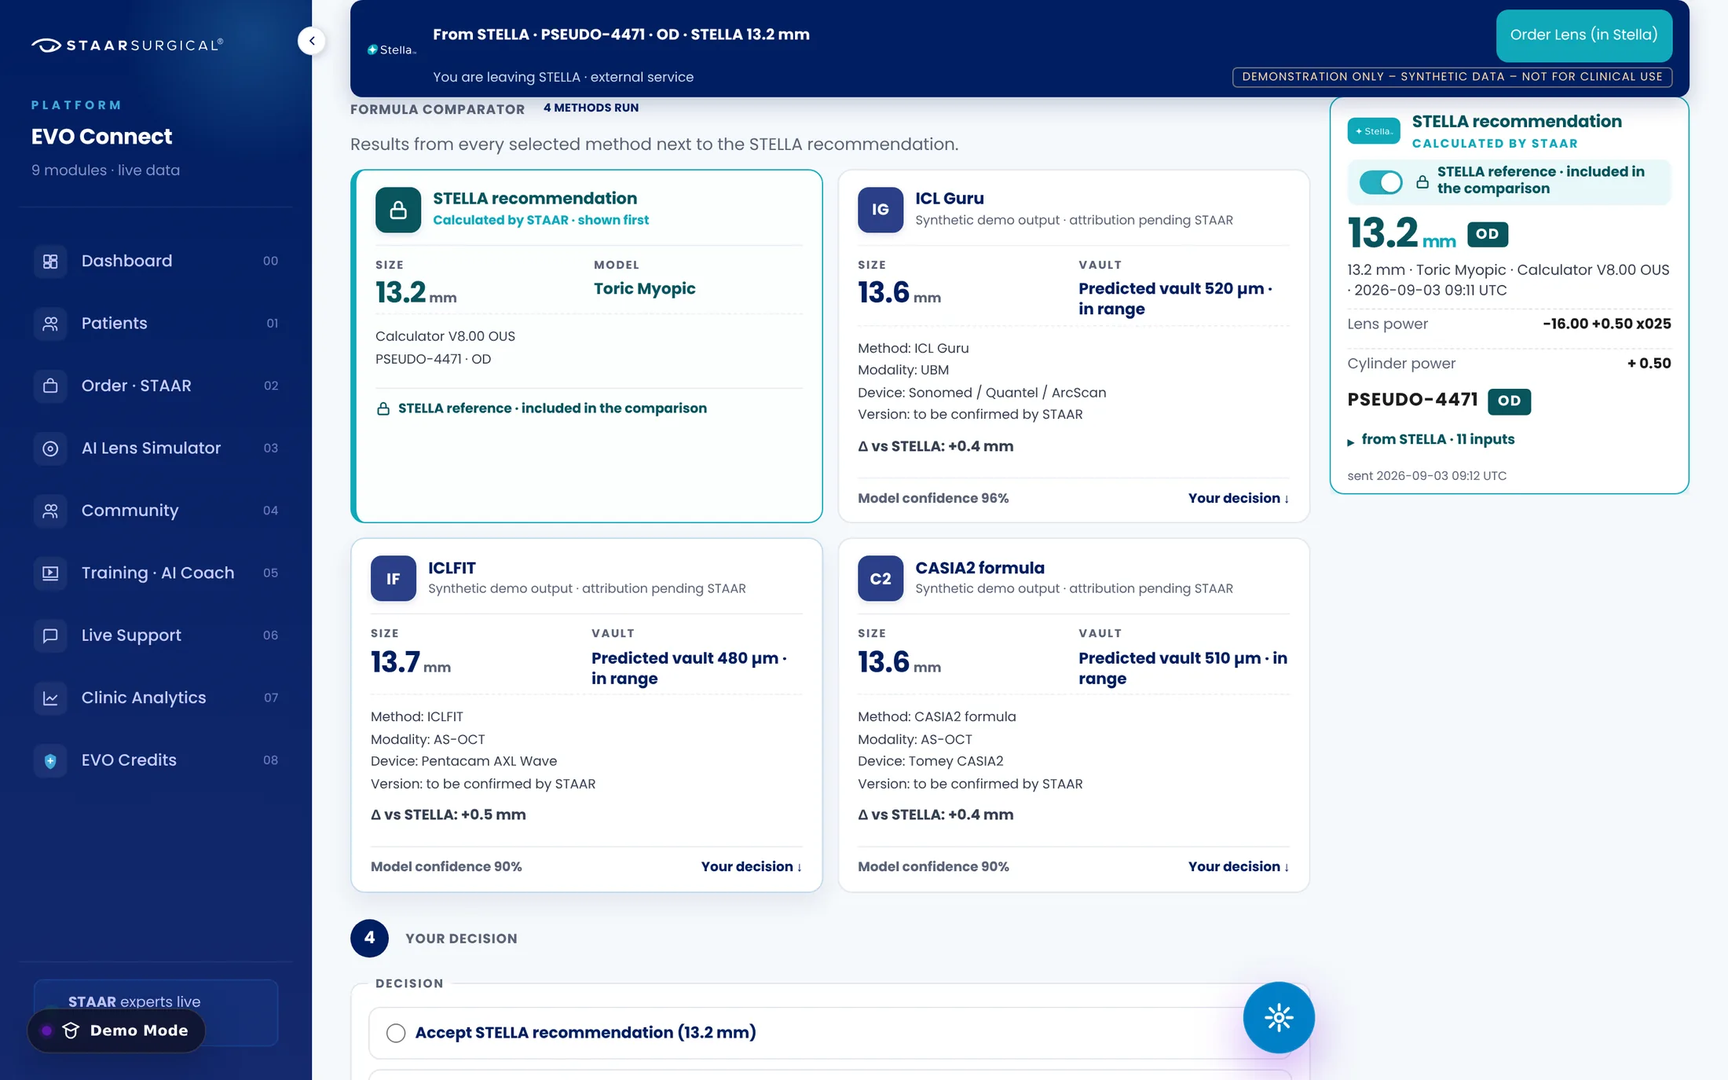
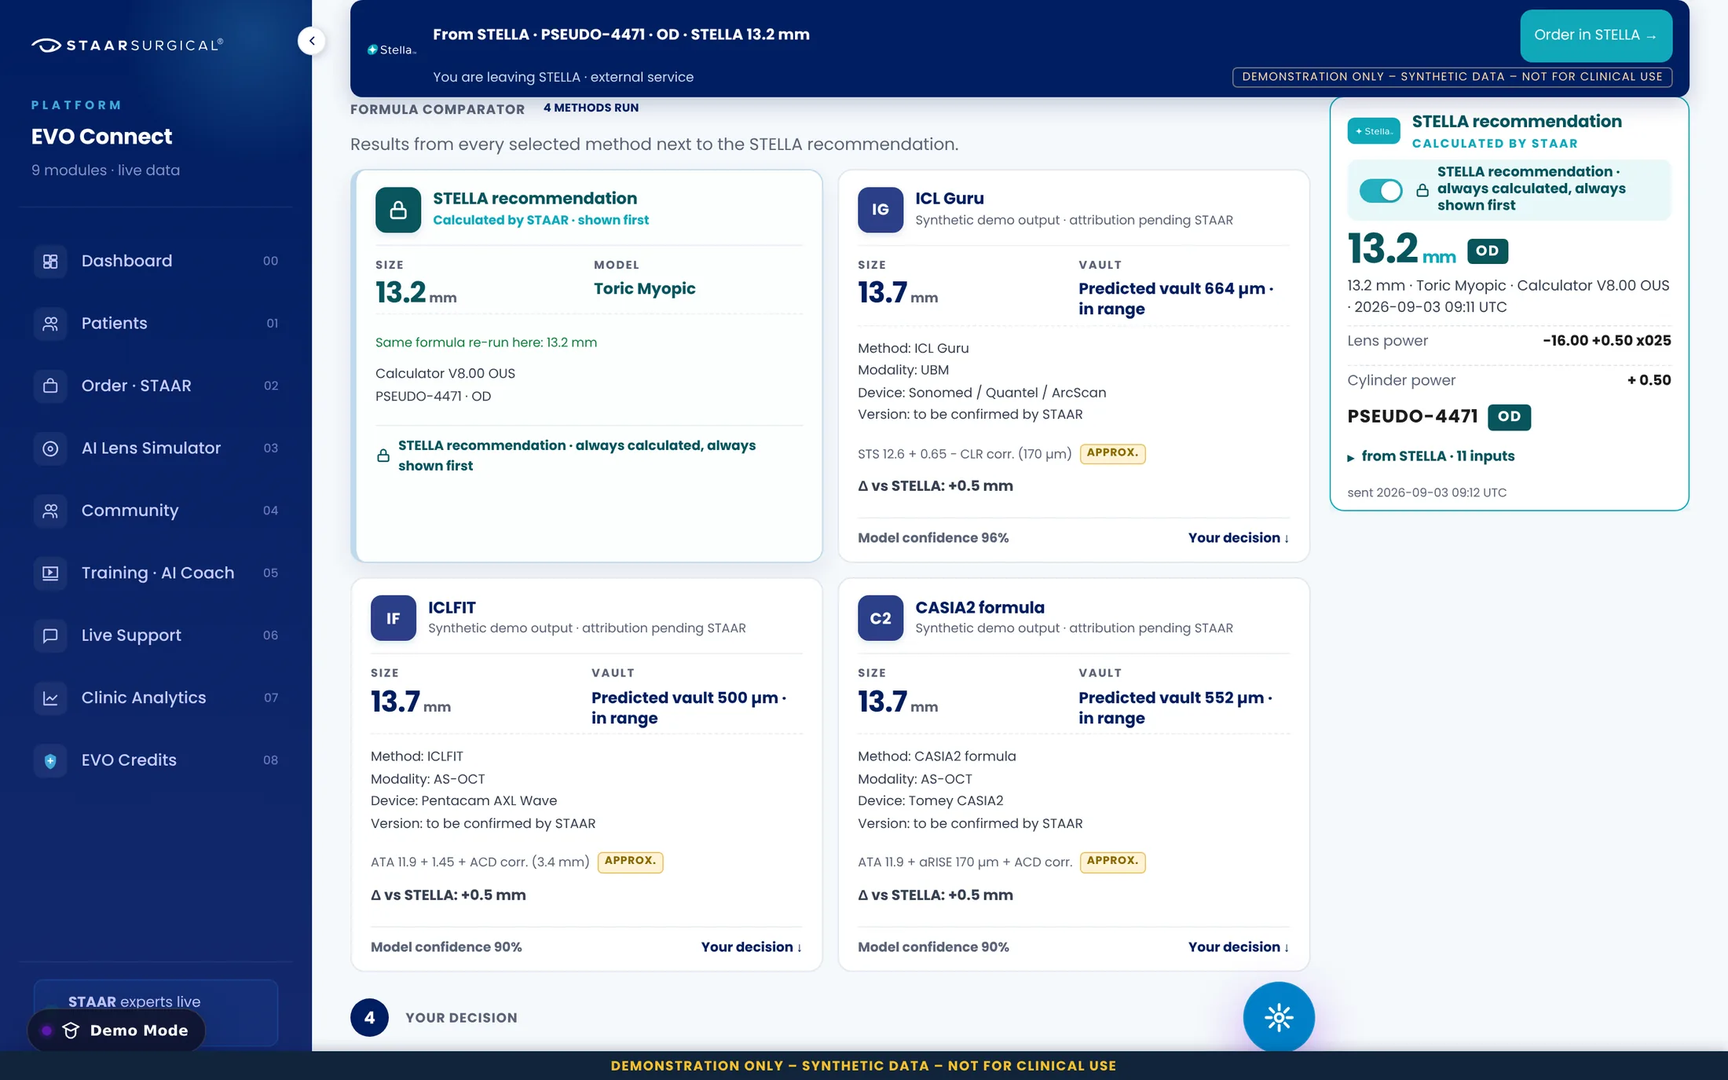
Ecosystem: device alternation, valid lens sizes, animated roadmap timeline

diff --git a/ecosystem.html b/ecosystem.html
@@ -304,20 +304,55 @@
   /* ---------- roadmap ---------- */
   .roadmap{background:var(--black);color:#fff;padding:var(--space-7) 24px;text-align:center;overflow:hidden}
   .roadmap .lead{font-size:20px;color:rgba(255,255,255,.75);max-width:680px;margin:18px auto 0}
-  .roadmap .rail{max-width:1180px;margin:72px auto 0;display:grid;grid-template-columns:repeat(3,1fr);gap:22px;position:relative;text-align:left}
-  .roadmap .rail::before{content:'';position:absolute;left:0;right:0;top:-34px;height:1px;background:linear-gradient(90deg,var(--teal),rgba(16,168,186,.15))}
-  @media (max-width:980px){ .roadmap .rail{grid-template-columns:repeat(2,1fr)} }
-  @media (max-width:640px){ .roadmap .rail{grid-template-columns:1fr} }
-  .rm{position:relative;background:#0F1318;border:1px solid rgba(255,255,255,.08);border-radius:22px;padding:28px 26px 26px;min-height:210px;transition:transform .4s var(--ease),border-color .3s}
-  .rm:hover{transform:translateY(-4px);border-color:rgba(16,168,186,.5)}
-  .rm .q{font-size:11px;font-weight:700;letter-spacing:1.6px;text-transform:uppercase;color:var(--teal);margin:0 0 16px;display:flex;align-items:center;gap:10px}
-  .rm .q::before{content:'';width:8px;height:8px;border-radius:50%;background:var(--teal);box-shadow:0 0 0 4px rgba(16,168,186,.2)}
-  .rm .ico{width:44px;height:44px;border-radius:12px;display:flex;align-items:center;justify-content:center;background:rgba(16,168,186,.12);color:var(--teal);margin-bottom:16px}
-  .rm .ico svg{width:22px;height:22px;stroke:currentColor;fill:none;stroke-width:1.7;stroke-linecap:round;stroke-linejoin:round}
-  .rm h4{font-size:21px;font-weight:600;letter-spacing:-.01em;margin:0 0 8px;line-height:1.2}
-  .rm p{font-size:15px;font-weight:300;color:rgba(255,255,255,.7);line-height:1.55;margin:0}
-  .rm.now{background:linear-gradient(160deg,#07272C,#0F1318 70%);border-color:rgba(16,168,186,.45)}
-  .rm.now .q::after{content:'in preview';margin-left:auto;font-size:9px;padding:3px 8px;border-radius:999px;background:var(--teal);color:#fff;letter-spacing:.8px}
+  .phones{display:flex;justify-content:center;align-items:flex-start;gap:40px;margin:64px auto 0;max-width:1080px}
+  .phones .iphone{position:static;transform:none;width:280px}
+  .phones .iphone:first-child{transform:translateY(28px) rotate(-1.5deg)}
+  .phones .iphone:last-child{transform:rotate(1.5deg)}
+  @media (max-width:900px){ .phones .iphone{width:240px} }
+  @media (max-width:640px){ .phones{flex-direction:column;align-items:center;gap:28px} .phones .iphone{display:block;width:min(270px,78vw);transform:none} }
+
+  .iphone .tabbar{position:absolute;left:0;right:0;bottom:0;display:flex;justify-content:space-around;padding:10px 6px 16px;background:#fff;border-top:1px solid #E3E7EF;font-size:8px;font-weight:600;color:#94A0B8}
+  .iphone .tabbar span{display:flex;flex-direction:column;align-items:center;gap:4px}
+  .iphone .tabbar span::before{content:'';width:16px;height:16px;border-radius:5px;background:#E3E7EF}
+  .iphone .tabbar span.on{color:var(--teal)} .iphone .tabbar span.on::before{background:var(--teal)}
+  .tl-hint{display:none;font-size:11px;font-weight:700;letter-spacing:1.4px;text-transform:uppercase;color:rgba(255,255,255,.4);margin:6px 0 0}
+  @media (max-width:1100px){ .tl-hint{display:block} }
+  /* ---------- roadmap timeline ---------- */
+  .tl-wrap{max-width:1180px;margin:90px auto 0;text-align:left}
+  .tl-track{list-style:none;margin:0;padding:0 0 18px;display:grid;grid-auto-flow:column;grid-auto-columns:minmax(186px,1fr);gap:14px;overflow-x:auto;scroll-snap-type:x mandatory;-webkit-overflow-scrolling:touch;scrollbar-width:none}
+  .tl-track::-webkit-scrollbar{display:none}
+  .tl-item{position:relative;padding-top:64px;scroll-snap-align:start}
+  .tl-seg{position:absolute;left:0;right:-14px;top:14px;height:2px;background:rgba(255,255,255,.1);overflow:hidden}
+  .tl-item:last-child .tl-seg{right:0}
+  .tl-seg::after{content:'';position:absolute;inset:0;background:linear-gradient(90deg,var(--teal),var(--teal-3));transform:scaleX(0);transform-origin:left;transition:transform .7s var(--ease)}
+  .tl-dot{position:absolute;left:0;top:7px;width:16px;height:16px;border-radius:50%;background:#0F1318;border:2px solid rgba(255,255,255,.25);box-sizing:border-box;transition:border-color .4s,box-shadow .4s,transform .4s var(--ease)}
+  .tl-ph{position:absolute;left:0;top:34px;font-size:11px;font-weight:700;letter-spacing:1.4px;text-transform:uppercase;color:rgba(255,255,255,.45);transition:color .4s}
+  .tl-wrap.in .tl-seg::after{transform:scaleX(1)}
+  .tl-wrap.in .tl-dot{border-color:var(--teal);box-shadow:0 0 0 5px rgba(16,168,186,.18)}
+  .tl-wrap.in .tl-ph{color:var(--teal)}
+  .tl-item:nth-child(1) .tl-seg::after,.tl-item:nth-child(1) .tl-dot,.tl-item:nth-child(1) .tl-ph{transition-delay:.05s}
+  .tl-item:nth-child(2) .tl-seg::after,.tl-item:nth-child(2) .tl-dot,.tl-item:nth-child(2) .tl-ph{transition-delay:.55s}
+  .tl-item:nth-child(3) .tl-seg::after,.tl-item:nth-child(3) .tl-dot,.tl-item:nth-child(3) .tl-ph{transition-delay:1.05s}
+  .tl-item:nth-child(4) .tl-seg::after,.tl-item:nth-child(4) .tl-dot,.tl-item:nth-child(4) .tl-ph{transition-delay:1.55s}
+  .tl-item:nth-child(5) .tl-seg::after,.tl-item:nth-child(5) .tl-dot,.tl-item:nth-child(5) .tl-ph{transition-delay:2.05s}
+  .tl-item:nth-child(6) .tl-seg::after,.tl-item:nth-child(6) .tl-dot,.tl-item:nth-child(6) .tl-ph{transition-delay:2.55s}
+  .tl-item.now .tl-dot{background:var(--teal)}
+  .tl-wrap.in .tl-item.now .tl-dot{animation:tlPulse 2.4s ease-out 1s infinite}
+  @keyframes tlPulse{0%{box-shadow:0 0 0 5px rgba(16,168,186,.18)}60%{box-shadow:0 0 0 14px rgba(16,168,186,0)}100%{box-shadow:0 0 0 5px rgba(16,168,186,.18)}}
+  .tl-card{position:relative;height:100%;background:#0F1318;border:1px solid rgba(255,255,255,.08);border-radius:20px;padding:22px 20px 24px;min-height:250px;transition:transform .4s var(--ease),border-color .3s,background .3s}
+  .tl-item:hover .tl-card{transform:translateY(-6px);border-color:rgba(16,168,186,.55)}
+  .tl-item:hover .tl-dot{transform:scale(1.35)}
+  .tl-n{position:absolute;top:14px;right:18px;font-size:34px;font-weight:200;letter-spacing:-.03em;color:rgba(255,255,255,.14);line-height:1}
+  .tl-card .ico{width:42px;height:42px;border-radius:12px;display:flex;align-items:center;justify-content:center;background:rgba(16,168,186,.12);color:var(--teal);margin-bottom:18px}
+  .tl-card .ico svg{width:21px;height:21px;stroke:currentColor;fill:none;stroke-width:1.7;stroke-linecap:round;stroke-linejoin:round}
+  .tl-card h4{font-size:19px;font-weight:600;letter-spacing:-.01em;margin:0 0 8px;line-height:1.2}
+  .tl-card p{font-size:14px;font-weight:300;color:rgba(255,255,255,.68);line-height:1.5;margin:0}
+  .tl-item.now .tl-card{background:linear-gradient(160deg,#07272C,#0F1318 70%);border-color:rgba(16,168,186,.45)}
+  .tl-item.horizon .tl-card{background:linear-gradient(160deg,var(--teal-2),#0F1318 85%);border-color:rgba(16,168,186,.4)}
+  .tl-item.horizon .tl-card .ico{background:rgba(255,255,255,.14);color:#fff}
+  .tl-item.horizon .tl-card p{color:rgba(255,255,255,.8)}
+  @media (max-width:1100px){ .tl-track{grid-auto-columns:minmax(230px,1fr)} }
+  @media (prefers-reduced-motion:reduce){ .tl-seg::after{transition:none} .tl-wrap.in .tl-item.now .tl-dot{animation:none} }
 </style>
 </head>
 <body>
@@ -425,23 +460,10 @@
     <p class="eyebrow rv">Sizing · Formula comparator</p>
     <h2 class="display rv d1">Every formula. One screen.<br><b>Your call.</b></h2>
     <p class="lead rv d2">Run the methods you trust — ICL Guru, ICLFIT, CASIA2 and more — on the same data, right next to the STELLA recommendation. Size, predicted vault, device and version for each one. Then decide, 100% confident, with your reason kept on the record.</p>
-    <div class="chips rv d3"><span><b>STELLA</b> 13.2 mm</span><span>ICL Guru 13.6</span><span>ICLFIT 13.7</span><span>CASIA2 13.6</span><span>Δ vs STELLA, side by side</span></div>
-    <div class="stage has-phone rv" data-frame>
+    <div class="chips rv d3"><span><b>STELLA</b> 13.2 mm</span><span>ICL Guru 13.7</span><span>ICLFIT 13.7</span><span>CASIA2 13.7</span><span>Δ vs STELLA, side by side</span></div>
+    <div class="stage rv" data-frame>
       <div class="mac"><div class="lid"><div class="cam"></div><div class="screen"><img src="/assets/showcase/evo_sizing_comparator.webp" alt="EVO Connect formula comparator: the STELLA recommendation shown first and locked, next to ICL Guru, ICLFIT and CASIA2 results with size, predicted vault, device and version" loading="lazy" width="2200" height="1375"></div></div><div class="base"></div></div>
-      <div class="iphone" aria-hidden="true"><div class="scr">
-        <div class="island"></div>
-        <div class="st light" style="position:relative;z-index:2;background:#0A1B5C"><span>9:41</span><span>●●● ▮</span></div>
-        <div class="hd"><div class="t">From STELLA · PSEUDO-4471 · OD</div><div class="s">STELLA 13.2 mm · 4 methods run</div></div>
-        <div class="body">
-          <p class="k">Formula comparator</p>
-          <div class="card stella"><div class="n"><i>S</i>STELLA recommendation</div><span class="tag">Shown first</span><div class="v"><b>13.2</b><span>mm · Toric Myopic</span></div><div class="m">Calculator V8.00 OUS</div></div>
-          <div class="card"><div class="n"><i>IG</i>ICL Guru</div><div class="v"><b>13.6</b><span>mm · vault 520 µm</span></div><div class="m">UBM · Δ vs STELLA +0.4 mm</div></div>
-          <div class="card"><div class="n"><i>IF</i>ICLFIT</div><div class="v"><b>13.7</b><span>mm · vault 480 µm</span></div><div class="m">AS-OCT · Δ vs STELLA +0.5 mm</div></div>
-          <div class="card"><div class="n"><i>C2</i>CASIA2</div><div class="v"><b>13.6</b><span>mm · vault 510 µm</span></div><div class="m">AS-OCT · Δ vs STELLA +0.4 mm</div></div>
-          <p class="k" style="margin:2px 0 0;color:var(--teal)">Your decision ↓</p>
-        </div>
-      </div></div>
-    </div>
+          </div>
     <div class="feats">
       <div class="feat rv"><div class="ico"><svg viewBox="0 0 24 24"><rect x="3" y="4" width="18" height="16" rx="2"/><path d="M3 10h18M9 4v16"/></svg></div><h4>Same data, every method</h4><p>One set of inputs feeds every formula you select. No copy-paste between calculators, no version doubts.</p></div>
       <div class="feat rv d1"><div class="ico"><svg viewBox="0 0 24 24"><path d="M12 3l2.5 5.5L20 9l-4 4 1 6-5-2.7L7 19l1-6-4-4 5.5-.5z"/></svg></div><h4>STELLA always in view</h4><p>The official recommendation is pinned first and cannot be hidden. Every other number is read against it.</p></div>
@@ -474,8 +496,21 @@
     <p class="eyebrow rv">Order · Delivery</p>
     <h2 class="display rv d1">A few clicks to order.<br><b>Then follow it to the OR.</b></h2>
     <p class="lead rv d2">The lens you chose becomes the order in STELLA. EVO Connect follows it from reserved to delivered — ETA against the surgery date, and an alert the moment the margin gets tight.</p>
-    <div class="stage has-phone rv" data-frame>
-      <div class="mac"><div class="lid"><div class="cam"></div><div class="screen"><img src="/assets/showcase/evo_order_tracking.webp" alt="EVO Connect order module: active orders, critical alerts, watch list and arrivals this week, with each lens order tracked against its surgery date" loading="lazy" width="2200" height="1375"></div></div><div class="base"></div></div>
+    <div class="phones rv" data-frame>
+      <div class="iphone" aria-hidden="true"><div class="scr">
+        <div class="island"></div>
+        <div class="st light" style="position:relative;z-index:2;background:#0A1B5C"><span>9:41</span><span>●●● ▮</span></div>
+        <div class="hd"><div class="t">Orders · this week</div><div class="s">Parkhurst NuVision · 8 active · 2 critical</div></div>
+        <div class="body">
+          <div class="kpi"><div><b>8</b><span>Active orders</span></div><div><b style="color:#D9480F">2</b><span>Critical alerts</span></div><div><b>2</b><span>Watch list</span></div><div><b class="ok">7</b><span>Arriving this week</span></div></div>
+          <p class="k">Active alerts</p>
+          <div class="card" style="border-left:3px solid #D9480F"><div class="n">LOT-241015-C · A. Duarte</div><div class="m">EVO −9.5 / 13.7 · <b style="color:#D9480F">Delayed shipment</b></div><div class="m">ETA Apr 26 (+3d) · Surgery Apr 28</div></div>
+          <div class="card" style="border-left:3px solid #E8A317"><div class="n">LOT-241020-F · S. Ortega</div><div class="m">EVO −5.75 / 13.2 · <b style="color:#B8860B">Tight ETA · 48 h buffer</b></div><div class="m">ETA Apr 27 · Surgery May 2</div></div>
+          <div class="card" style="border-left:3px solid #E8A317"><div class="n">LOT-241021-G · C. Navarro</div><div class="m">EVO+ −10.25 / 13.2 · <b style="color:#B8860B">High-power lens · rare SKU</b></div><div class="m">ETA Apr 30 · Surgery May 4</div></div>
+          <span class="btn">Escalate to STAAR →</span>
+        </div>
+        <div class="tabbar"><span >Home</span><span>Patients</span><span class="on">Orders</span><span>Copilot</span></div>
+      </div></div>
       <div class="iphone" aria-hidden="true"><div class="scr">
         <div class="island"></div>
         <div class="st light" style="position:relative;z-index:2;background:#0A1B5C"><span>9:41</span><span>●●● ▮</span></div>
@@ -494,6 +529,7 @@
           </div>
           <span class="btn">Open case →</span>
         </div>
+        <div class="tabbar"><span >Home</span><span>Patients</span><span class="on">Orders</span><span>Copilot</span></div>
       </div></div>
     </div>
     <div class="feats">
@@ -511,24 +547,9 @@
     <h2 class="display rv d1">Register the outcome.<br><b>Learn from your practice.</b></h2>
     <p class="lead rv d2">Log vault, refraction and PROMs at every visit. Your cases become your evidence: prediction error by method, rotation stability, patient satisfaction — the numbers that make the next case better.</p>
     <div class="chips rv d3"><span><b>288</b> eyes · vault error 1D</span><span><b>88.6%</b> within ±200 µm</span><span><b>NPS 78</b> · 90 days</span></div>
-    <div class="stage has-phone rv" data-frame>
+    <div class="stage rv" data-frame>
       <div class="mac"><div class="lid"><div class="cam"></div><div class="screen"><img src="/assets/showcase/evo_clinic_analytics.webp" alt="EVO Connect clinic analytics: predicted versus actual vault error distribution, mean absolute error over time and toric rotation stability" loading="lazy" width="2200" height="1375"></div></div><div class="base"></div></div>
-      <div class="iphone left" aria-hidden="true"><div class="scr">
-        <div class="island"></div>
-        <div class="st light" style="position:relative;z-index:2;background:#0A1B5C"><span>9:41</span><span>●●● ▮</span></div>
-        <div class="hd"><div class="t">J. Rivera · OD · Post-op 6 M</div><div class="s">EVO+ Toric 13.2 mm · surgery Mar 28, 2026</div></div>
-        <div class="body">
-          <p class="k">Visit · 24/09/2026</p>
-          <div class="kpi"><div><b>480 <span style="font-size:9px">µm</span></b><span>Vault · AS-OCT</span></div><div><b>20/20</b><span>UCVA</span></div><div><b>−0.25 D</b><span>Residual SE</span></div><div><b>9.4<span style="font-size:9px">/10</span></b><span>PROM · satisfaction</span></div></div>
-          <p class="k">Vault trajectory</p>
-          <div class="card" style="padding:10px">
-            <svg viewBox="0 0 200 70" width="100%" height="64" aria-hidden="true"><path d="M0 52h200" stroke="#E3E7EF" stroke-width="1"/><path d="M0 22h200" stroke="#E3E7EF" stroke-width="1" stroke-dasharray="3 3"/><polyline points="10,18 45,26 80,33 115,38 150,41 185,42" fill="none" stroke="#10A8BA" stroke-width="2.2" stroke-linecap="round"/><circle cx="185" cy="42" r="3.5" fill="#10A8BA"/><text x="10" y="64" font-size="8" fill="#94A0B8">1D</text><text x="80" y="64" font-size="8" fill="#94A0B8">1M</text><text x="150" y="64" font-size="8" fill="#94A0B8">6M</text></svg>
-            <div class="m" style="font-size:8.5px;color:#5A6478">520 → 480 µm · settled, in range</div>
           </div>
-          <span class="btn">Save visit · +20 EVO</span>
-        </div>
-      </div></div>
-    </div>
     <div class="feats">
       <div class="feat rv"><div class="ico"><svg viewBox="0 0 24 24"><path d="M9 11l3 3L22 4"/><path d="M21 12v7a2 2 0 01-2 2H5a2 2 0 01-2-2V5a2 2 0 012-2h11"/></svg></div><h4>Every visit, captured</h4><p>1 day, 1 week, 1, 3, 6 and 12 months. Vault, refraction, PROMs and studies attached to the same case.</p></div>
       <div class="feat rv d1"><div class="ico"><svg viewBox="0 0 24 24"><path d="M4 20h16M6 16l4-8 4 5 4-9"/></svg></div><h4>Prediction vs reality</h4><p>Predicted vault against measured vault, by method and by surgeon. See which formula fits your anatomy mix.</p></div>
@@ -633,8 +654,8 @@
 <!-- ROADMAP -->
 <section class="roadmap" id="roadmap">
   <p class="eyebrow rv">Roadmap</p>
-  <h2 class="display rv d1">What comes <b>next.</b></h2>
-  <p class="lead rv d2">The platform grows with every case. A first look at the AI Copilot, already in preview — and what follows it.</p>
+  <h2 class="display rv d1">From your next case <b>to every OR.</b></h2>
+  <p class="lead rv d2">What ships next, in the order it ships. The AI Copilot is already in preview — ask it anything about your clinic.</p>
   <div class="stage has-phone rv" data-frame style="text-align:left">
     <div class="mac"><div class="lid"><div class="cam"></div><div class="screen"><img src="/assets/showcase/evo_ai_copilot.webp" alt="EVO Copilot answering a question about month-by-month surgery evolution with a chart, inside EVO Connect" loading="lazy" width="2200" height="1375"></div></div><div class="base"></div></div>
     <div class="iphone" aria-hidden="true"><div class="scr">
@@ -654,16 +675,18 @@
       <div class="ask">Ask about a patient, the OR, outcomes… <b></b></div>
     </div></div>
   </div>
-  <div class="rail">
-    <div class="rm now rv"><p class="q">AI Copilot</p><div class="ico"><svg viewBox="0 0 24 24"><path d="M12 2l3 7 7 3-7 3-3 7-3-7-7-3 7-3z"/></svg></div><h4>Alerts and recommendations</h4><p>Flags the case that needs a second look — a shallow ACD, a tight delivery, an overdue visit — and tells you why, in plain language.</p></div>
-    <div class="rm rv d1"><p class="q">Analytics</p><div class="ico"><svg viewBox="0 0 24 24"><path d="M4 19V9M10 19V5M16 19v-8M22 19H2"/></svg></div><h4>Custom analytics</h4><p>Build the dashboards your clinic actually needs: your metrics, your cohorts, your comparisons, exported on demand.</p></div>
-    <div class="rm rv d2"><p class="q">Integration</p><div class="ico"><svg viewBox="0 0 24 24"><path d="M10 13a5 5 0 007.5.5l3-3a5 5 0 00-7-7l-1.5 1.5"/><path d="M14 11a5 5 0 00-7.5-.5l-3 3a5 5 0 007 7l1.5-1.5"/></svg></div><h4>External EHR integration</h4><p>A two-way connection with the systems you already run, so the case is complete before the patient walks in.</p></div>
-    <div class="rm rv"><p class="q">Operations</p><div class="ico"><svg viewBox="0 0 24 24"><rect x="3" y="4" width="18" height="17" rx="2"/><path d="M3 9h18M8 2v4M16 2v4M8 14h3M13 14h3M8 18h3"/></svg></div><h4>Surgical Planner &amp; OR management</h4><p>From lens to schedule: the day's list, the trays, the lenses in the room, and the surgeon's plan for each eye.</p></div>
-    <div class="rm rv d1"><p class="q">Community</p><div class="ico"><svg viewBox="0 0 24 24"><circle cx="9" cy="8" r="3"/><path d="M3 19c0-3 2.7-5 6-5s6 2 6 5"/><path d="M16 5.5a3 3 0 010 5.4M18.5 3a6 6 0 010 10.4"/></svg></div><h4>A place for your cases</h4><p>Share an anonymised case, ask about a difficult vault, and see how peers handled the same anatomy.</p></div>
-    <div class="rm rv d2"><p class="q">AI agents</p><div class="ico"><svg viewBox="0 0 24 24"><rect x="4" y="7" width="16" height="12" rx="3"/><path d="M12 3v4M9 12h.01M15 12h.01M9 16h6"/></svg></div><h4>A full team of AI agents</h4><p>Agents that prepare the case, check the plan and follow up the patient — so your work gets easier, faster and more precise.</p></div>
+  <div class="tl-wrap rv" data-timeline>
+    <ol class="tl-track">
+      <li class="tl-item now"><div class="tl-seg"></div><i class="tl-dot"></i><span class="tl-ph">In preview</span><div class="tl-card"><span class="tl-n">01</span><div class="ico"><svg viewBox="0 0 24 24"><path d="M12 2l3 7 7 3-7 3-3 7-3-7-7-3 7-3z"/></svg></div><h4>AI Copilot</h4><p>Alerts and recommendations, in plain language, on every case.</p></div></li>
+      <li class="tl-item"><div class="tl-seg"></div><i class="tl-dot"></i><span class="tl-ph">Next</span><div class="tl-card"><span class="tl-n">02</span><div class="ico"><svg viewBox="0 0 24 24"><path d="M4 19V9M10 19V5M16 19v-8M22 19H2"/></svg></div><h4>Custom analytics</h4><p>Your metrics, your cohorts, your dashboards. Exported on demand.</p></div></li>
+      <li class="tl-item"><div class="tl-seg"></div><i class="tl-dot"></i><span class="tl-ph">Next</span><div class="tl-card"><span class="tl-n">03</span><div class="ico"><svg viewBox="0 0 24 24"><path d="M10 13a5 5 0 007.5.5l3-3a5 5 0 00-7-7l-1.5 1.5"/><path d="M14 11a5 5 0 00-7.5-.5l-3 3a5 5 0 007 7l1.5-1.5"/></svg></div><h4>External EHR integration</h4><p>Two-way with the systems you run. The case is complete before the visit.</p></div></li>
+      <li class="tl-item"><div class="tl-seg"></div><i class="tl-dot"></i><span class="tl-ph">Then</span><div class="tl-card"><span class="tl-n">04</span><div class="ico"><svg viewBox="0 0 24 24"><rect x="3" y="4" width="18" height="17" rx="2"/><path d="M3 9h18M8 2v4M16 2v4M8 14h3M13 14h3M8 18h3"/></svg></div><h4>Surgical Planner &amp; OR</h4><p>The day's list, the trays, the lenses in the room.</p></div></li>
+      <li class="tl-item"><div class="tl-seg"></div><i class="tl-dot"></i><span class="tl-ph">Then</span><div class="tl-card"><span class="tl-n">05</span><div class="ico"><svg viewBox="0 0 24 24"><circle cx="9" cy="8" r="3"/><path d="M3 19c0-3 2.7-5 6-5s6 2 6 5"/><path d="M16 5.5a3 3 0 010 5.4M18.5 3a6 6 0 010 10.4"/></svg></div><h4>Community</h4><p>Share and discuss your cases with your peers.</p></div></li>
+      <li class="tl-item horizon"><div class="tl-seg"></div><i class="tl-dot"></i><span class="tl-ph">Horizon</span><div class="tl-card"><span class="tl-n">06</span><div class="ico"><svg viewBox="0 0 24 24"><rect x="4" y="7" width="16" height="12" rx="3"/><path d="M12 3v4M9 12h.01M15 12h.01M9 16h6"/></svg></div><h4>A full team of AI agents</h4><p>Prepare, check, follow up. Your work easier, faster, more precise.</p></div></li>
+    </ol>
+    <p class="tl-hint">Swipe to see what follows →</p>
   </div>
 </section>
-
 <!-- CTA -->
 <section class="cta">
   <p class="eyebrow rv">Live demo environment</p>
